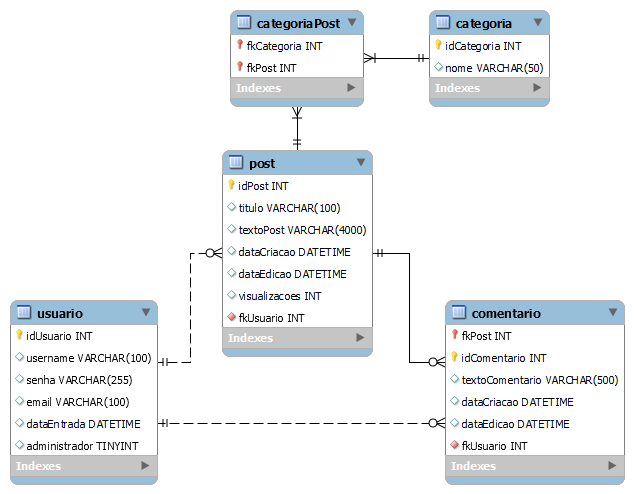
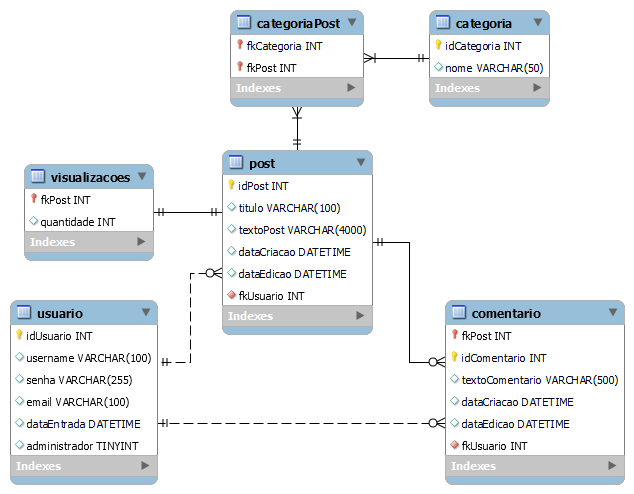
Adição de relacionamento 1-1 ao banco;

diff --git a/ProjIndividual/site/public/post.html b/ProjIndividual/site/public/post.html
@@ -102,39 +102,57 @@
                             if (response.ok) {
                                 response.json().then((resposta) => {
                                     var idPost = resposta[0].idPost;
-                                    var categorias = [];
-                                    for (let i = 0; i < idCategorias.length; i++) {
-                                        let checkbox = document.getElementById(idCategorias[i])
-                                        if (checkbox.checked) {
-                                            categorias.push(checkbox.value);
-                                        }
-                                    }
 
-                                    if (categorias.length > 0) {
-                                        fetch('/post/cadastrarCategorias', {
-                                            method: 'POST',
-                                            headers: {
-                                                "Content-Type": "application/json"
-                                            },
-                                            body: JSON.stringify({
-                                                categoriasServer: categorias,
-                                                idPostServer: idPost
-                                            })
+                                    fetch('post/cadastrarVisualizacoes', {
+                                        method: 'POST',
+                                        headers: {
+                                            "Content-Type": "application/json"
+                                        },
+                                        body: JSON.stringify({
+                                            idPostServer: idPost
                                         })
-                                            .then((response) => {
-                                                if (response.ok) {
-                                                    window.location = 'index.html';
-                                                } else {
-                                                    console.error(response);
+                                    })
+                                        .then((response) => {
+                                            if (response.ok) {
+                                                var categorias = [];
+                                                for (let i = 0; i < idCategorias.length; i++) {
+                                                    let checkbox = document.getElementById(idCategorias[i])
+                                                    if (checkbox.checked) {
+                                                        categorias.push(checkbox.value);
+                                                    }
                                                 }
-                                            })
-                                            .catch((erro) => {
-                                                console.error(erro);
-                                            })
-                                    } else {
-                                        window.location = 'index.html';
-                                    }
 
+                                                if (categorias.length > 0) {
+                                                    fetch('/post/cadastrarCategorias', {
+                                                        method: 'POST',
+                                                        headers: {
+                                                            "Content-Type": "application/json"
+                                                        },
+                                                        body: JSON.stringify({
+                                                            categoriasServer: categorias,
+                                                            idPostServer: idPost
+                                                        })
+                                                    })
+                                                        .then((response) => {
+                                                            if (response.ok) {
+                                                                window.location = 'index.html';
+                                                            } else {
+                                                                console.error(response);
+                                                            }
+                                                        })
+                                                        .catch((erro) => {
+                                                            console.error(erro);
+                                                        })
+                                                } else {
+                                                    window.location = 'index.html';
+                                                }
+                                            } else {
+                                                console.error(response);
+                                            }
+                                        })
+                                        .catch((erro) => {
+                                            console.error(erro);
+                                        });
                                 })
                             } else {
                                 console.error(response);

diff --git a/ProjIndividual/site/src/models/postModel.js b/ProjIndividual/site/src/models/postModel.js
@@ -3,8 +3,8 @@ var database = require("../database/config")
 function listar() {
     console.log("ACESSEI O POST MODEL \n \n\t\t >> Se aqui der erro de 'Error: connect ECONNREFUSED',\n \t\t >> verifique suas credenciais de acesso ao banco\n \t\t >> e se o servidor de seu BD está rodando corretamente. \n\n function listar()");
     var instrucao = `
-        SELECT p.idPost, p.titulo, p.textoPost, p.dataCriacao, p.dataEdicao, p.visualizacoes, u.username 
-            FROM post AS p JOIN usuario AS u ON p.fkUsuario = u.idUsuario ORDER BY dataCriacao DESC, idPost DESC;
+        SELECT p.idPost, p.titulo, p.textoPost, p.dataCriacao, p.dataEdicao, v.quantidade, u.username 
+            FROM post AS p JOIN visualizacoes AS v ON v.fkPost = p.idPost JOIN usuario AS u ON p.fkUsuario = u.idUsuario ORDER BY dataCriacao DESC, idPost DESC;
     `;
     console.log("Executando a instrução SQL: \n" + instrucao);
     return database.executar(instrucao);
@@ -19,20 +19,9 @@ function listarUltimoPost(idUsuario) {
 
 function visualizar(idPost) {
     console.log("ACESSEI O POST MODEL \n \n\t\t >> Se aqui der erro de 'Error: connect ECONNREFUSED',\n \t\t >> verifique suas credenciais de acesso ao banco\n \t\t >> e se o servidor de seu BD está rodando corretamente. \n\n function listar()");
-    // var instrucao = `
-        // SELECT * FROM post JOIN comentario ON fkPost = idPost JOIN usuario ON  WHERE idPost = ${idPost};
-    // `;
-    var instrucao = `UPDATE post SET visualizacoes = visualizacoes + 1 WHERE idPost = ${idPost}`;
-    // database.executar(instrucao).catch((erro) => {
-    //     console.error("Erro ao atualizar visualizações: " + erro);
-    // });
 
-    // var instrucao = `
-    //     SELECT p.idPost, p.titulo, p.textoPost, p.dataCriacao, p.dataEdicao, p.visualizacoes, u.username
-    //     FROM post AS p JOIN usuario AS u ON p.fkUsuario = u.idUsuario 
-    //     WHERE p.idPost = ${idPost};
-    // `;
-    // console.log("Executando a instrução SQL: \n" + instrucao);
+    var instrucao = `UPDATE visualizacoes SET quantidade = quantidade + 1 WHERE fkPost = ${idPost}`;
+
     return database.executar(instrucao);
 }
 
@@ -56,6 +45,11 @@ function cadastrarCategorias(categorias, idPost) {
             instrucao += ',';
         }
     }
+    return database.executar(instrucao);
+}
+
+function cadastrarVisualizacoes(idPost) {
+    var instrucao = `INSERT INTO visualizacoes VALUES (${idPost}, 0);`
     return database.executar(instrucao);
 }
 
@@ -83,6 +77,7 @@ module.exports = {
     // entrar,
     cadastrar,
     cadastrarCategorias,
+    cadastrarVisualizacoes,
     listar,
     listarUltimoPost,
     visualizar,

diff --git a/ProjIndividual/site/src/controllers/dashboardController.js b/ProjIndividual/site/src/controllers/dashboardController.js
@@ -26,26 +26,26 @@ function obterDados(req, res) {
     switch (agrupamento) {
         case 'categoria':
             instrucao[0] = 'SELECT cat.nome AS label, ';
-            instrucao[1] = 'FROM post AS p JOIN categoriaPost AS cp ON p.idPost = cp.fkPost JOIN categoria AS cat ON cat.idCategoria = cp.fkCategoria ';
+            instrucao[1] = 'FROM post AS p JOIN visualizacoes AS v ON v.fkPost = p.idPost JOIN categoriaPost AS cp ON p.idPost = cp.fkPost JOIN categoria AS cat ON cat.idCategoria = cp.fkCategoria ';
             instrucao[3] = 'GROUP BY label ';
             break;
 
         case 'post':
             instrucao[0] = 'SELECT p.titulo AS label, ';
-            instrucao[1] = 'FROM post AS p JOIN categoriaPost AS cp ON p.idPost = cp.fkPost JOIN categoria AS cat ON cat.idCategoria = cp.fkCategoria ';
+            instrucao[1] = 'FROM post AS p JOIN visualizacoes AS v ON v.fkPost = p.idPost JOIN categoriaPost AS cp ON p.idPost = cp.fkPost JOIN categoria AS cat ON cat.idCategoria = cp.fkCategoria ';
             instrucao[3] = 'GROUP BY label ';
             break;
 
         case 'mes':
             instrucao[0] = 'SELECT MONTH(p.dataCriacao) AS label, ';
-            instrucao[1] = 'FROM post AS p JOIN categoriaPost AS cp ON p.idPost = cp.fkPost JOIN categoria AS cat ON cat.idCategoria = cp.fkCategoria ';
+            instrucao[1] = 'FROM post AS p JOIN visualizacoes AS v ON v.fkPost = p.idPost JOIN categoriaPost AS cp ON p.idPost = cp.fkPost JOIN categoria AS cat ON cat.idCategoria = cp.fkCategoria ';
             instrucao[3] = 'GROUP BY label ';
             instrucao[4] = 'ORDER BY label ASC';
             break;
 
         case 'semana':
             instrucao[0] = 'SELECT DAYOFWEEK(p.dataCriacao) AS label, ';
-            instrucao[1] = 'FROM post AS p JOIN categoriaPost AS cp ON p.idPost = cp.fkPost JOIN categoria AS cat ON cat.idCategoria = cp.fkCategoria ';
+            instrucao[1] = 'FROM post AS p JOIN visualizacoes AS v ON v.fkPost = p.idPost JOIN categoriaPost AS cp ON p.idPost = cp.fkPost JOIN categoria AS cat ON cat.idCategoria = cp.fkCategoria ';
             instrucao[3] = 'GROUP BY label ';
             instrucao[4] = 'ORDER BY label ASC';
             break;
@@ -57,7 +57,7 @@ function obterDados(req, res) {
 
     switch (metrica) {
         case 'visualizacao':
-            instrucao[0] += 'SUM(p.visualizacoes) AS dado ';
+            instrucao[0] += 'SUM(v.quantidade) AS dado ';
             instrucao[4] ||= 'ORDER BY dado DESC';
             break;
             

diff --git a/ProjIndividual/site/public/index.html b/ProjIndividual/site/public/index.html
@@ -128,7 +128,7 @@
         for (var i = (pagina - 1) * itensPorPagina; i < listaFiltrada.length && i < pagina * itensPorPagina; i++) {
             divLista.innerHTML += `<div class="post" onclick="selecionarPost(${listaFiltrada[i].idPost})">
                     <h3>${listaFiltrada[i].titulo}</h3>
-                    <p>${listaFiltrada[i].textoPost.slice(0,400)}...</p>
+                    <p>${listaFiltrada[i].textoPost}</p>
                     <span>Criado em: ${listaFiltrada[i].dataCriacao.toDateString()} por ${listaFiltrada[i].username}</span>
                 </div>`;
         }
@@ -267,7 +267,7 @@
 
         divPost.innerHTML = '';
         var texto = `<div class="post">
-                    <h3><span class="botao" onclick="voltar()"><img src="img/nav_left.svg" alt="Voltar"></span>${post.titulo} <div class="visualizacoes">${post.visualizacoes + 1} <img src="img/eye.svg"></div></h3>
+                    <h3><span class="botao" onclick="voltar()"><img src="img/nav_left.svg" alt="Voltar"></span>${post.titulo} <div class="visualizacoes">${++post.quantidade} <img src="img/eye.svg"></div></h3>
 
                     <div id="divShowPost${idPost}" class="mostrarCard">
                         <p id="pPost${idPost}">${post.textoPost}</p>
@@ -342,7 +342,7 @@
             })
         }).then(function (resposta) {
             if (resposta.ok) {
-                // Alterar visualizações
+                
             }
         }).catch(function (erro) {
             console.log(erro);

diff --git a/ProjIndividual/site/src/controllers/postController.js b/ProjIndividual/site/src/controllers/postController.js
@@ -135,6 +135,32 @@ function cadastrarCategorias(req, res) {
     }
 }
 
+function cadastrarVisualizacoes(req, res) {
+    var idPost = req.body.idPostServer;
+    if (idPost == undefined) {
+        res.status(400).send("Seu idPost está undefined!");
+    } else {
+        
+        // Passe os valores como parâmetro e vá para o arquivo postModel.js
+        postModel.cadastrarVisualizacoes(idPost)
+            .then(
+                function (resultado) {
+                    res.json(resultado);
+                }
+            ).catch(
+                function (erro) {
+                    console.log(erro);
+                    console.log(
+                        "\nHouve um erro ao realizar o cadastro! Erro: ",
+                        erro.sqlMessage
+                    );
+                    res.status(500).json(erro.sqlMessage);
+                }
+            );
+    }
+}
+
+
 function atualizar(req, res) {
     var textoPost = req.body.textoPostServer;
     var idPost = req.body.idPostServer;
@@ -194,6 +220,7 @@ module.exports = {
     // entrar,
     cadastrar,
     cadastrarCategorias,
+    cadastrarVisualizacoes,
     listar,
     listarUltimoPost,
     visualizar,

diff --git a/ProjIndividual/site/src/models/comentarioModel.js b/ProjIndividual/site/src/models/comentarioModel.js
@@ -20,12 +20,6 @@ function listarPorPost(idPost) {
 
 function cadastrar(post, texto, usuario) {
     console.log("ACESSEI O COMENTARIO MODEL \n \n\t\t >> Se aqui der erro de 'Error: connect ECONNREFUSED',\n \t\t >> verifique suas credenciais de acesso ao banco\n \t\t >> e se o servidor de seu BD está rodando corretamente. \n\n function cadastrar():", post, texto, usuario);
-    
-    // var idComentario;
-    // database.executar(`SELECT MAX(idComentario) FROM comentario WHERE fkPost = ${post};`).then(function(resultado) {
-    //     idComentario = json(resultado);
-    // });
-    // console.log(idComentario);
 
     var instrucao = `
         INSERT INTO comentario (fkPost, textoComentario, dataCriacao, dataEdicao, fkUsuario) VALUES (${post}, '${texto}', now(), now(), ${usuario});

diff --git a/ProjIndividual/site/public/busca.html b/ProjIndividual/site/public/busca.html
@@ -195,7 +195,7 @@
 
         divPost.innerHTML = '';
         var texto = `<div class="post">
-                    <h3><span class="botao" onclick="voltar()"><img src="img/nav_left.svg" alt="Voltar"></span>${post.titulo} <div class="visualizacoes">${post.visualizacoes + 1} <img src="img/eye.svg"></div></h3>
+                    <h3><span class="botao" onclick="voltar()"><img src="img/nav_left.svg" alt="Voltar"></span>${post.titulo} <div class="visualizacoes">${post.quantidade + 1} <img src="img/eye.svg"></div></h3>
 
                     <div id="divShowPost${idPost}" class="mostrarCard">
                         <p id="pPost${idPost}">${post.textoPost}</p>

diff --git a/ProjIndividual/site/src/routes/post.js b/ProjIndividual/site/src/routes/post.js
@@ -27,6 +27,10 @@ router.post("/cadastrarCategorias", function (req, res) {
     postController.cadastrarCategorias(req, res);
 });
 
+router.post("/cadastrarVisualizacoes", function (req, res) {
+    postController.cadastrarVisualizacoes(req, res);
+})
+
 router.put("/atualizar", function(req, res) {
     postController.atualizar(req, res);
 });
